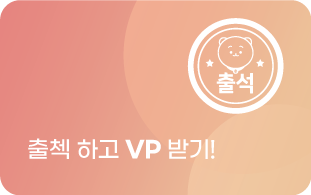
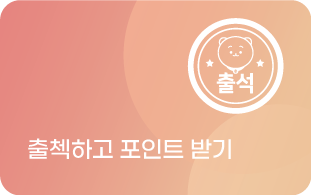
2021-06-24_10:30:01 auto commit

Changed region(s): [[0.2315, 0.7077, 0.7524, 0.8308]]

diff --git a/views/_layout/cic_sub/css/content.css b/views/_layout/cic_sub/css/content.css
@@ -5955,18 +5955,25 @@
         padding-right: 24px;
     }
     .search-wrap.list .list.community .my-info .pimg img {
-        width: 18px;
+        width: 28px;
+        height: auto;
+        margin-top: -3px;
+        margin-right: -7px;
     }
     .search-wrap.list .list.community .my-info .rtxt {
         line-height: 21px;
         font-size: 13px;
         max-width: none;
     }
+    .search-wrap.list .list.community table tbody td.l.notice a {
+        padding-left: 0px;
+    }
 }
 
 @media only screen and (max-width: 680px) {
     .search-wrap.list .list.community table tbody tr {
         padding: 10px 15px 30px 15px;
+        height: 50px;
     }
     .search-wrap.list .list.community table tbody td:nth-child(1) {
         bottom: 8px;
@@ -6142,7 +6149,8 @@
 }
 
 .search-wrap.list .list.vimg.vp li a {
-    padding-right: 320px;
+    /* padding-right: 320px; */
+    width: 60%;
 }
 
 .search-wrap.list .list.vimg.vp li .abr {

diff --git a/application/controllers/admin/cicconfigs/Forum.php b/application/controllers/admin/cicconfigs/Forum.php
@@ -78,22 +78,26 @@ class Forum extends CB_Controller
 		$config = array(
 			array(
 				'field' => 'forum_deposit',
-				'label' => '포럼 예치금',
+				// 'label' => '포럼 예치금',
+				'label' => '포럼 예치CP',
 				'rules' => 'trim|required|greater_than_equal_to[0]|callback__deposit_decimal_check',
 			),
 			array(
 				'field' => 'forum_bat_change_commission',
-				'label' => '포럼 배팅 진영 변경 수수료',
+				// 'label' => '포럼 배팅 진영 변경 수수료',
+				'label' => '포럼 진영 변경 수수료',
 				'rules' => 'trim|required|greater_than_equal_to[0]|less_than_equal_to[100]|callback__bat_change_commission_decimal_check',
 			),
 			array(
 				'field' => 'forum_bat_max',
-				'label' => '포럼 최대 배팅금액',
+				// 'label' => '포럼 최대 배팅금액',
+				'label' => '포럼 최대 행사금액',
 				'rules' => 'trim|required|greater_than_equal_to[0]|callback__bat_max_decimal_check',
 			),
 			array(
 				'field' => 'forum_bat_min',
-				'label' => '포럼 최소 배팅금액',
+				// 'label' => '포럼 최소 배팅금액',
+				'label' => '포럼 최소 행사금액',
 				'rules' => 'trim|required|greater_than_equal_to[0]|callback__bat_min_decimal_check',
 			),
 		);
@@ -185,8 +189,11 @@ class Forum extends CB_Controller
 							
 							// 반환 기록
 							if($result == 1){
-								$content = '관리자로부터 예치금 금액이 변경되었습니다. 사용되지 않은 예치금은 반환됩니다.';
-								$action = '포럼예치금 반환';
+								$content = '관리자로부터 CP가 변경되었습니다. 사용되지 않은 CP는 반환됩니다.';
+								// $content = '관리자로부터 예치금 금액이 변경되었습니다. 사용되지 않은 예치금은 반환됩니다.';
+								$action = '포럼 CP 반환';
+								// $action = '포럼예치금 반환';
+
 
 								// insert_cp +
 								$this->point->insert_cp($mem_id, $mem_deposit, $content, 'member', $mem_id, $this->member->item('mem_id') . '-' . uniqid(''));
@@ -226,8 +233,10 @@ class Forum extends CB_Controller
 								
 								// 반환 기록
 								if($result == 1){
-									$content = '관리자로부터 예치금 금액이 변경되었습니다. 사용되지 않은 예치금은 반환됩니다.';
-									$action = '포럼예치금 반환';
+									$content =  '관리자로부터 CP가 변경되었습니다. 사용되지 않은 CP는 반환됩니다.';
+									$action = '포럼 CP 반환';
+									// $content = '관리자로부터 예치금 금액이 변경되었습니다. 사용되지 않은 예치금은 반환됩니다.';
+									// $action = '포럼예치금 반환';
 
 									// insert_cp
 									$this->point->insert_cp($mem_id, $mem_deposit, $content, 'member', $mem_id, $this->member->item('mem_id') . '-' . uniqid(''));
@@ -246,8 +255,10 @@ class Forum extends CB_Controller
 							
 							// 반환 기록
 							if($result == 1){
-								$content = '관리자로부터 예치금 금액이 변경되었습니다. 사용되지 않은 예치금은 반환됩니다.';
-								$action = '포럼예치금 반환';
+								$content =  '관리자로부터 CP가 변경되었습니다. 사용되지 않은 CP는 반환됩니다.';
+								$action = '포럼 CP 반환';
+								// $content = '관리자로부터 예치금 금액이 변경되었습니다. 사용되지 않은 예치금은 반환됩니다.';
+								// $action = '포럼예치금 반환';
 								
 								// insert_cp
 								$this->point->insert_cp($mem_id, $mem_deposit, $content, 'member', $mem_id, $this->member->item('mem_id') . '-' . uniqid(''));
@@ -283,7 +294,8 @@ class Forum extends CB_Controller
         
 		$this->form_validation->set_message(
 			'_deposit_decimal_check',
-			'포럼 예치금은 소수점 2자리 까지 설정이 가능합니다'
+			// '포럼 예치금은 소수점 2자리 까지 설정이 가능합니다'
+			'포럼 CP는 소수점 2자리 까지 설정이 가능합니다'
 		);
 		return false;
 	}

diff --git a/application/controllers/Deposit.php b/application/controllers/Deposit.php
@@ -88,7 +88,8 @@ class Deposit extends CB_Controller
             $this->Member_model->set_user_modify($mem_id, $arr);
 
             // insert cp -
-            $this->point->insert_cp($mem_id, -$deposit_meta, '포럼예치금입금', 'member', $mem_id, $this->member->item('mem_id') . '-' . uniqid(''));
+            // $this->point->insert_cp($mem_id, -$deposit_meta, '포럼예치금입금', 'member', $mem_id, $this->member->item('mem_id') . '-' . uniqid(''));
+            $this->point->insert_cp($mem_id, -$deposit_meta, '포럼CP예치', 'member', $mem_id, $this->member->item('mem_id') . '-' . uniqid(''));
             
             $result = array(
                 'state' => '1',
@@ -169,17 +170,20 @@ class Deposit extends CB_Controller
             $this->Member_model->set_user_modify($mem_id, $arr);
 
             // insert cp +
-            $result = $this->point->insert_cp($mem_id, $mem_deposit, '포럼예치금반환', 'member', $mem_id, $this->member->item('mem_id') . '-' . uniqid('') );
+            // $result = $this->point->insert_cp($mem_id, $mem_deposit, '포럼예치금반환', 'member', $mem_id, $this->member->item('mem_id') . '-' . uniqid('') );
+            $result = $this->point->insert_cp($mem_id, $mem_deposit, '포럼예치CP반환', 'member', $mem_id, $this->member->item('mem_id') . '-' . uniqid('') );
             
             $result = array(
                 'state' => '1',
-                'message' => '예치금이 반환 되었습니다',
+                // 'message' => '예치금이 반환 되었습니다',
+                'message' => '예치CP가 반환 되었습니다',
             );
             exit(json_encode($result));
         }else {
             $result = array(
 				'state' => '0',
-				'message' => '반환할 예치금이 없습니다',
+				// 'message' => '반환할 예치금이 없습니다',
+                'message' => '반환할 예치CP가 없습니다',
 			);
 			exit(json_encode($result));
         }

diff --git a/views/main/cic/main.php b/views/main/cic/main.php
@@ -342,17 +342,17 @@
                         </li>
                         <li>
                             <a href="<?php echo $this->member->is_member() ? base_url('/mypage/charge') : 'javascript:alert(\'로그인이 필요한 서비스입니다.\');';?>">
-                                <p class="desktop"><img src="<?php echo base_url('assets/images/use-img02.png') ?>"
+                                <p class="desktop"><img src="<?php echo base_url('assets/images/check-char.png') ?>"
                                         alt="" /></p>
-                                <p class="mobile"><img src="<?php echo base_url('assets/images/use-img02m.jpg') ?>"
+                                <p class="mobile"><img src="<?php echo base_url('assets/images/check-char.png') ?>"
                                         alt="" /></p>
                             </a>
                         </li>
                         <li>
                             <a href="javascript:alert('현재 준비중입니다.');">
-                                <p class="desktop"><img src="<?php echo base_url('assets/images/use-img03.png') ?>"
+                                <p class="desktop"><img src="<?php echo base_url('assets/images/check-qna.png') ?>"
                                         alt="" /></p>
-                                <p class="mobile"><img src="<?php echo base_url('assets/images/use-img03m.jpg') ?>"
+                                <p class="mobile"><img src="<?php echo base_url('assets/images/check-qna.png') ?>"
                                         alt="" /></p>
                             </a>
                         </li>

diff --git a/views/board/cic_userforum/list.php b/views/board/cic_userforum/list.php
@@ -147,10 +147,10 @@
                     if(element('write_url', element('list', $view))){
                         if (element('isDeposit', $view)) { 
                     ?>
-                        <a href="javascript:void(0);" class="by-btn" id="deposit_subtract_confirm" data-deposit-url="<?php echo site_url(element('deposit_url', $view)); ?>" style="display:inline-block;"><span>예치금 반환</span></a>
+                        <a href="javascript:void(0);" class="by-btn" id="deposit_subtract_confirm" data-deposit-url="<?php echo site_url(element('deposit_url', $view)); ?>" style="display:inline-block;"><span>CP 반환</span></a>
                         <a href="javascript:void(0);" class="by-btn" id="deposit_insert" style="display:none;"><span>참여하기</span></a>
                     <?php }else { ?>
-                        <a href="javascript:void(0);" class="by-btn" id="deposit_subtract_confirm" data-deposit-url="<?php echo site_url(element('deposit_url', $view)); ?>" style="display:none;"><span>예치금 반환</span></a>
+                        <a href="javascript:void(0);" class="by-btn" id="deposit_subtract_confirm" data-deposit-url="<?php echo site_url(element('deposit_url', $view)); ?>" style="display:none;"><span>CP 반환</span></a>
                         <a href="javascript:void(0);" class="by-btn" id="deposit_insert" style="display:inline-block;"><span>참여하기</span></a>
                     <?php 
                         }

diff --git a/views/mypage/cic/cp.php b/views/mypage/cic/cp.php
@@ -43,7 +43,7 @@
 								<td><span><?php echo number_format(element('num', $post));?></span></td>
 								<td><span><?php echo html_escape(element('cp_point', $post) >= 0 ? '+'.element('cp_point', $post) : element('cp_point', $post));?></span></td>
 								<td class="l_memo"><span><?php echo html_escape(element('cp_content', $post));?></span></td>
-								<td><?php echo html_escape(element('cp_action', $post));?></td>
+								<td><?php echo preg_match("/[xE0-xFF][x80-xFF][x80-xFF]/", html_escape(element('cp_action', $post))) ? "" : html_escape(element('cp_action', $post));?></td>
 								<td><?php echo display_datetime(element('cp_datetime', $post), 'full', 'Y-m-d H:i'); ?></td>
 							</tr>
 						<?php } ?>

diff --git a/views/search/cic/search.php b/views/search/cic/search.php
@@ -258,6 +258,7 @@
 										</p>
 									</div>
 								</div>
+							</a>
 								<div class="abr">
 									<div class="photo">
 										<p class="pimg"><img src="<?php echo thumb_url('mlc_attach', element('mlc_attach', $result), 28, 28);?>"
@@ -267,7 +268,6 @@
 									</div>
 									<p class="vp"><?php echo number_format(element('post_like_point', $result)-element('post_dislike_point', $result)); ?> VP</p>
 								</div>	
-							</a>
 						</li>
 					<?php	
 						}

diff --git a/application/controllers/Board_write.php b/application/controllers/Board_write.php
@@ -107,7 +107,9 @@ class Board_write extends CB_Controller
 
 			// 이미 예치된 금액이 있는지 확인
 			if(!$mem_deposit){
-				alert('예치된 금액이 없습니다');
+				// alert('예치된 금액이 없습니다');
+				alert('예치된 CP가 없습니다');
+				
 				return false;
 			}
 			// 예치금이 충분히 있는지 확인
